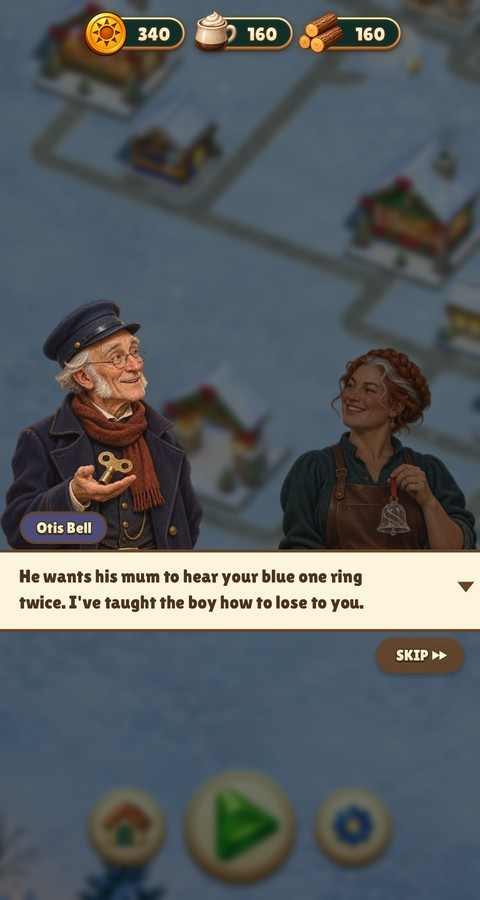
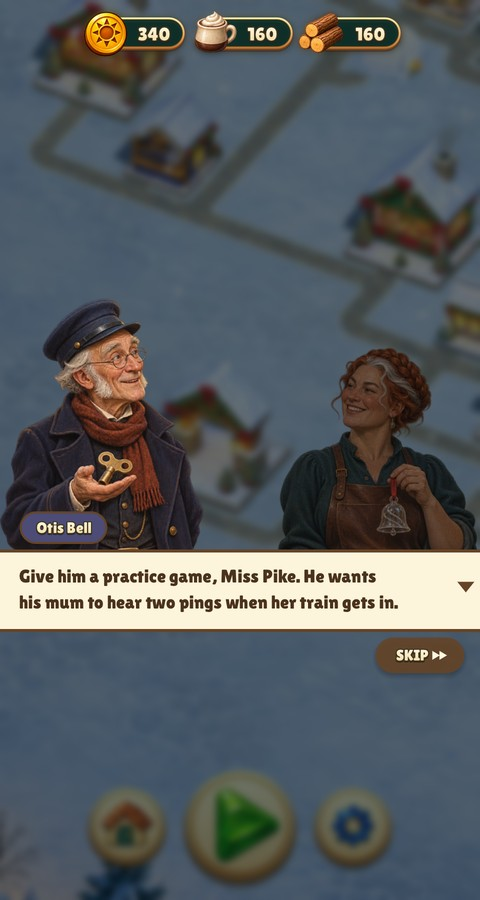
Close both resident stories with remembered questions at each home

Changed region(s): [[0.0312, 0.6222, 0.8438, 0.6844]]

diff --git a/tools/town_story.py b/tools/town_story.py
@@ -58,19 +58,54 @@ def meeting_questions(blocks, sites, key, visits, residents, speakers):
     return output
 
 
-def compile_recall(body, sites, meeting, cast, speakers, level_lines):
+def recall_questions(blocks, sites, checkpoint, residents, speakers):
+    homes = blocks[1::3]
+    assert sorted(homes) == sorted(sites), f'{checkpoint}: write one final question at each home'
+    output = []
+    for site, label, body in zip(homes, blocks[2::3], blocks[3::3]):
+        parts = re.split(r'^\*\*If heard ([a-z_]+)\*\*$', body, flags=re.M)
+        lines = speech(parts[0], speakers)
+        assert any(line.speaker == speakers[residents[site][0]] for line in lines), label
+        output.append('        {key=%s, building=%s, when=%s, topic="recall", label=%s, lines={' %
+                      (quote(checkpoint + '.' + site), quote(site), quote(checkpoint), quote(label)))
+        output.extend('            ' + line.lua() + ',' for line in lines)
+        if len(parts) > 1:
+            other, reply = parts[1:]
+            alternate = speech(reply, speakers)
+            assert other in sites and other != site, label
+            assert [line.speaker for line in alternate] == [line.speaker for line in lines], label
+            output.append('        }, replies={')
+            for index, line in enumerate(alternate, 1):
+                output.append('            {index=%d, building=%s, when=%s, line=%s},' %
+                              (index, quote(other), quote(checkpoint + '.' + other), line.lua()))
+        output.append('        }},')
+    return output
+
+
+def compile_recall(body, sites, meeting, cast, speakers, level_beat, residents):
+    body, *catchup = re.split(r'^\*\*Catch up in town\*\*$', body, flags=re.M)
     parts = re.split(r'^\*\*Heard ([a-z_]+)\*\*$', body, flags=re.M)
     histories = parts[1::2]
     assert not parts[0].strip() and sorted(histories) == sorted([*sites, 'neither', 'both']), \
         f'{meeting}: write one exchange for each listening history'
-    output = [', recall={meeting=%s, exchanges={' % quote(meeting)]
+    checkpoint = meeting + '.' + level_beat['key']
+    output = [', recall={key=%s, meeting=%s, exchanges={' % (quote(checkpoint), quote(meeting))]
     for history, exchange in zip(histories, parts[2::2]):
         lines = speech(exchange, speakers)
         assert {line.speaker for line in lines} == cast, f'{meeting}: both residents must speak in {history}'
-        assert len(level_lines) + len(lines) <= 48, f'{meeting}: {history} exceeds the dialogue queue'
+        assert len(level_beat['lines']) + len(lines) <= 48, f'{meeting}: {history} exceeds the dialogue queue'
         output.append('        [%s]={' % quote(history))
         output.extend('            ' + line.lua() + ',' for line in lines)
         output.append('        },')
+    if catchup:
+        town, = catchup
+        blocks = re.split(r'^\*\*Ask at ([a-z_]+) \| ([^\n]+\?)\*\*$', town, flags=re.M)
+        lines = speech(blocks[0], speakers)
+        assert {line.speaker for line in lines} == cast, checkpoint
+        output.append('    }, lines={')
+        output.extend('        ' + line.lua() + ',' for line in lines)
+        output.append('    }, followups={')
+        output.extend(recall_questions(blocks, sites, checkpoint, residents, speakers))
     output.append('    }}')
     return '\n'.join(output)
 
@@ -174,7 +209,7 @@ def compile_town(source, beats, speakers):
             assert target not in recalls, f'{target}: two meetings share a recall'
             assert {site for site, source in zip(followups[1::4], followups[2::4]) if not source} == set(sites), \
                 f'{key}: both residents need a first account'
-            recalls[target] = compile_recall(exchange, sites, key, cast, speakers, by_key[target]['lines'])
+            recalls[target] = compile_recall(exchange, sites, key, cast, speakers, by_key[target], residents)
         output.append('    {key=%s, phase="meeting", sites={%s}, level=%d, lines={' %
                       (quote(key), ', '.join(map(quote, sites)), level))
         output.extend('        ' + line.lua() + ',' for line in lines)

diff --git a/tools/scenario_overview.py b/tools/scenario_overview.py
@@ -161,6 +161,13 @@ class Page:
                 resident = self.cast[self.residents['placed-' + history]]['name']
                 heard = f'only {resident}’s side'
             body += f'<p class="pick">After the pair meets, if you heard {esc(heard)}</p>{self.lines(lines)}'
+        if b.get('catchup'):
+            body += '<p class="pick">Catch up in town</p>' + self.lines(b['catchup'])
+        for answer in b.get('endings', []):
+            name = self.steps[answer['building']]['name']
+            body += f'<p class="pick">{esc(name)} · {esc(answer["label"])}</p>{self.lines(answer["lines"])}'
+            if answer.get('alternate'):
+                body += '<p class="pick">After hearing the other resident</p>' + self.lines(answer['alternate'])
         if b.get('note'):
             body = f'<p class="note">Journal: {esc(b["note"])}</p>' + body
         if b.get('choices'):

diff --git a/games/relic-rush/docs/story.md b/games/relic-rush/docs/story.md
@@ -15,7 +15,7 @@ The camp is abandoned, the old well is fouled, and the quay wall is failing. The
 3. Recently Ines returned by a different shore. She found the room flooded and, unable to reach camp, used its hand shutter to send the old warning. She changed its rhythm to attract attention. Tomas does not know she is back.
 4. Adrian financed the expedition using a promised exclusive claim on island discoveries. He has not told Elena; the claim puts the relay and islanders' work at risk. Kessler represents the claim holder, not a supernatural threat.
 5. The team repairs the route to the tide room and finds Ines's signed plan. Adrian gives up the claim, and the crew drains the foot of the wall and makes the quay safe. When Mara tests the warning lamp, Ines waits and answers with the same three flashes from the safe landing. Tomas gives her the key, and she brings a chart of the other stations.
-6. Nera draws Lio and his parrot together for his sister. His sister recognizes the ear the bird likes to nibble. On the flood watch, Lio offers to take the pencil and draw Nera for her.
+6. Nera draws Lio and his parrot together for his sister. His sister recognizes the ear the bird likes to nibble. On the flood watch, Lio offers to take the pencil and draw Nera for her. Lio’s sister hangs the portraits facing each other. Nera is searching her pocket for the pencil behind her ear.
 
 ## Question and cast
 
@@ -66,6 +66,7 @@ One restoration opens every five expeditions. Story restorations (bold) play a s
 | Lio asks Nera to draw his bird for his sister | The drawing catches the parrot nibbling Lio’s ear. His sister recognizes him by that ear. |
 | Carry the story of the ear between the aviary and the Cartographer’s House | Nera kept the imperfect ear because it looked like Lio. His sister hangs the drawing by her mirror. |
 | Hear either account, both accounts, or leave the pair to themselves | The flood watch gives Lio time to draw Nera for his sister (92). |
+| Visit either home after the pair’s level scene | Lio’s sister hangs the portraits facing each other. Nera is searching her pocket for the pencil behind her ear. |
 | Mara asks about the folded corner at the Cartographer’s House (56) | At Cormorant Rock (67), Nera trusts Mara to flatten it when their bearings agree. |
 | Mara asks which of Lio’s noises his parrot copies (aviary after 85) | At 91 Lio tells her what the bird has learned to get with his snore. |
 | Two flashes answer Mara’s lamp (Spring well) | The answer changes to three at the Expedition camp. Ines confirms her identity with the same delayed pattern at the safe landing (100). |
@@ -857,6 +858,8 @@ At the Great Aviary, ask Lio what his sister thought of the portrait. At the Car
 
 On the flood watch at 92, Lio offers to draw Nera for his sister. Their exchange remembers whose account of the portrait Mara heard. [Both sides heard](screenshots/meeting-recall.jpg) · [One side heard](screenshots/meeting-recall-phone.jpg)
 
+Both homes offer one last question after the flood watch. Lio tells Mara where his sister hung the drawings. Nera tells her where to look for the missing pencil. [First account](screenshots/resident-ending.jpg) · [Second account](screenshots/resident-ending-other.jpg)
+
 Bring Lio’s account of his sister to Nera, or ask Lio about the ear Nera kept redrawing. Either exchange gives Mara something she can take back to the other resident. [Visit menu](screenshots/meeting-reply-menu.jpg) · [Resident’s reply](screenshots/meeting-reply-answer.jpg)
 
 Nera Cruz moves into the Cartographer’s House after expedition 56. Ask about the folded corner, then take a bearing with her at Cormorant Rock (67).
@@ -1150,6 +1153,31 @@ Confirming one of these purchases starts its own conversation. A “With” head
 - **Lio:** My turn to draw you for my sister, Nera. Which ear shall I get wrong?
 - **Nera:** Yours took all afternoon and she knew it at a glance. Give me the bird. Let's try my left.
 
+**Catch up in town**
+
+- **Lio:** Nera, you drew me for my sister. I had a go at drawing you. May I send her mine too?
+- **Nera:** Let me see it before you roll it up, Lio. I missed my chance while I was sitting for you.
+
+**Ask at aviary | What did your sister do with your drawing?**
+
+- **Mara:** Lio, where did your sister put the drawing you made of Nera?
+- **Lio:** Beside the one Nera drew of me. She hung us facing each other so we'd have company.
+
+**If heard map_room**
+
+- **Mara:** Nera says you drew her hunting for her pencil. Did your sister spot it?
+- **Lio:** She spotted the pencil too, Mara. She hung Nera facing me. Says I ought to tell her where it is.
+
+**Ask at map_room | Did Lio get your likeness?**
+
+- **Mara:** Nera, would I know you in Lio's drawing?
+- **Nera:** My hand's in my pocket hunting for my pencil. There it is behind my ear. I let him keep that bit.
+
+**If heard aviary**
+
+- **Mara:** Lio says the two of you face each other on his sister’s wall. What are you doing in yours?
+- **Nera:** Feeling in my pocket for my pencil. It's behind my ear. You'd think he'd tell me.
+
 ## Upgrades
 
 Optional scenes: the keeper of a standing building and one other main character, at any time after it stands. Perks are felt, never named.
@@ -1263,6 +1291,8 @@ Crew requests were removed from the game (commit f98aedd2), along with their sce
 The scenes play over the live island with the speaking character’s portrait. The keeper’s words come from the watch book in the camp scene. `tools/prepare_story.py` compiles this script into `lua/story_content.lua`; it requires a scene after every expedition and one at each story restoration. Five writers drafted one chapter each from a shared outline; a continuity editor reconciled them (the cabinet number, the key, the register, Ines's reveal, who knows what when) and a separate cold reader read the result chapter by chapter.
 
 ## Changelog
+
+- 2026-11-21: Both homes offer one last question after the flood watch. Lio tells Mara where his sister hung the drawings. Nera tells her where to look for the missing pencil. Hearing either answer changes the conversation at the other home.
 
 - 2026-11-21: On the flood watch at 92, Lio offers to draw Nera for his sister. Their exchange remembers whose account of the portrait Mara heard.
 

diff --git a/games/christmas-market/docs/story.md b/games/christmas-market/docs/story.md
@@ -54,7 +54,7 @@ One stall opens every five wishes, four to each Advent. Story stalls (bold) hold
 2. **Noelle's gran, Rosa,** ran the market's last small stall until her knees gave out and she retired to the coast. This winter she sends Noelle to help get it going again for Advent. She gives her a red parcel tagged "For whoever needs it most." It holds the key to Rosa's house on the square and a note. Noelle decides to stay before she opens it.
 3. **Theo Marsh** runs the family tree lot, and his hands are always sticky with resin. He started the Kind Word box's new season himself, because the town seemed lonely.
 4. **Mr Wren** appears on the first day and leaves on the last. Nobody hired him. Things tend to go well near his broom. The script never explains him. He may simply be a kind old man. Writers should keep both readings possible, up to his last note.
-5. Ada makes a blue glass button for Otis’s tin-lid board. He teaches her the double jump and she uses it to beat him in their first game. When Pip hears his mum is coming, Ada and Otis find him a game to pass the wait.
+5. Ada makes a blue glass button for Otis’s tin-lid board. He teaches her the double jump and she uses it to beat him in their first game. When Pip hears his mum is coming, Ada and Otis find him a game to pass the wait. Pip offers two buttons as bait, catches Ada’s blue one in his mitten and wins. Otis keeps his advice to himself.
 
 ## Cast
 
@@ -85,6 +85,7 @@ Bramble the goat does not speak.
 | Ada promises Otis a blue draughts button | Ada wins their first game with a double jump. Otis taught her the move and left his two men open. |
 | Tell Ada about Otis’s lesson, or take her two pings to the kiosk | Ada remembers Otis asking for his turn back. Otis invites Pip to test whether the teacher learned his lesson. |
 | Hear either account, both accounts, or leave the pair to themselves | Ada and Otis lend Pip the tin while he waits for his mum’s train (85). |
+| Visit either home after the pair’s level scene | Pip offers two buttons as bait, catches Ada’s blue one in his mitten and wins. Otis keeps his advice to himself. |
 | Pip learns to play draughts on Otis’s tin lid with coat buttons (kiosk after 46) | While Henrik reads the letter (63), Otis gives Pip the first move. |
 | Noelle asks what Ada plays (glassblower’s stall after 84) | When the choir comes in at 90, Ada brings her spoons and waits for Noelle’s cue. |
 | The parcel, "For whoever needs it most" (opening) | Tried on Mrs Alder (31), Pip (56), Mr Wren (91), who tells her to open it. It's hers: Gran's front-door key (92) |
@@ -818,6 +819,8 @@ At the Station Kiosk, ask Otis how the first game went. At the Glassblower’s S
 
 After Pip’s telegram at 85, Ada and Otis lend him their game while he waits for his mum. Their exchange remembers whose account of the first game Pip heard. [Both sides heard](screenshots/meeting-recall.jpg) · [One side heard](screenshots/meeting-recall-phone.jpg)
 
+After the pair lend Pip their tin lid, both homes offer one last question. Ada explains how Pip won the game. Otis tells Noelle what happened when he tried to coach. [First account](screenshots/resident-ending.jpg) · [Second account](screenshots/resident-ending-other.jpg)
+
 Pip can ask Ada whether Otis left the double jump on purpose, or ask Otis what Ada’s two pings sounded like from his end of the board. Either answer gives Pip a reason to walk back. [Visit menu](screenshots/meeting-reply-menu.jpg) · [Resident’s reply](screenshots/meeting-reply-answer.jpg)
 
 Otis Bell brings his clock to the Station Kiosk after wish 46. Ask how he passes the time and he’ll remember whose buttons Pip chose when they wait outside Henrik’s door at wish 63.
@@ -1113,7 +1116,32 @@ Confirming one of these purchases starts its own conversation. A “With” head
 **Heard both**
 
 - **Ada:** Pip's lined up two buttons for me, Mr Bell. Have you been giving him lessons?
-- **Otis:** He wants his mum to hear your blue one ring twice. I've taught the boy how to lose to you.
+- **Otis:** Give him a practice game, Miss Pike. He wants his mum to hear two pings when her train gets in.
+
+**Catch up in town**
+
+- **Otis:** Miss Pike, may I have my tin lid back? You and Pip have finished your game and my pie's gone cold.
+- **Ada:** Here you are, Mr Bell. I've put the buttons in your pocket. Mind you don't bake them in tomorrow.
+
+**Ask at glassblower | How did Pip do against you?**
+
+- **Noelle:** Ada, who won when you played Pip on Mr Bell's lid?
+- **Ada:** Pip did. I jumped the two buttons he left me. He jumped my blue one straight into his mitten.
+
+**If heard station_kiosk**
+
+- **Noelle:** Mr Bell says Pip hushed him. Did you see the winning jump coming, Ada?
+- **Ada:** I saw two easy buttons, Noelle. Pip saw my blue one landing in his mitten. He won it fair.
+
+**Ask at station_kiosk | Did Pip need any coaching?**
+
+- **Noelle:** Did you have to whisper the moves to Pip, Mr Bell?
+- **Otis:** I took a breath. Pip put a finger to his lips and won all by himself. I drank my tea.
+
+**If heard glassblower**
+
+- **Noelle:** Ada says Pip caught her blue button in his mitten. Whose idea was that, Mr Bell?
+- **Otis:** Pip's. I opened my mouth and he put a finger to his lips. First match I've coached by drinking tea.
 
 ## Upgrades
 
@@ -1248,6 +1276,8 @@ Optional scenes, one per building, played on the next return to town after its f
 - **Compile:** `python3 tools/prepare_story.py` writes `lua/story_content.lua`; it requires a scene after every wish 1–100.
 
 ## Changelog
+
+- 2026-11-21: After the pair lend Pip their tin lid, both homes offer one last question. Ada explains how Pip won the game. Otis tells Noelle what happened when he tried to coach. Hearing either answer changes the conversation at the other home.
 
 - 2026-11-21: After Pip’s telegram at 85, Ada and Otis lend him their game while he waits for his mum. Their exchange remembers whose account of the first game Pip heard.
 

diff --git a/docs/PORTRAIT_GAMES.md b/docs/PORTRAIT_GAMES.md
@@ -101,6 +101,9 @@ The following headers come from Lio and Nera's visits, callbacks and meeting.
 | `**Ask at map_room after aviary \| What about Lio's ear?**` | Once the player hears Lio's account of this meeting, Mara can bring it up with Nera. |
 | `**Recall after-92**` | At the end of a meeting's script, name a later level where the pair speak together again. The exchange follows that level's usual lines when their meeting has finished and both homes stand. |
 | `**Heard aviary**` | Within a recall, write four short exchanges. Use each building key for its resident’s side alone, plus `neither` and `both`. Hearing the resident's original account or their follow-up counts. |
+| `**Catch up in town**` | After the four histories, give the pair a short exchange that also works after the finale. It plays once if the level scene finished before the pair met or an older save lacks a record of the exchange. |
+| `**Ask at aviary \| What did your sister do with your drawing?**` | After the catch-up text, give each resident one closing question. Finishing the shared exchange at the level or in town unlocks both questions across all later visit stages. |
+| `**If heard map_room**` | Inside a closing question, replace its exchange if the other resident has already answered theirs. Keep the same speaker sequence. Both the visitor’s question and the resident’s answer can acknowledge what was said. |
 
 Several lines in a scene can each have a `With` block. Within one block, write the ordinary
 building reply first, then the conditional replies in priority order. The first satisfied

diff --git a/docs/STORY_WRITING.md b/docs/STORY_WRITING.md
@@ -118,6 +118,7 @@ Beat order: result → island → place the wonder → beat → next goal. Wonde
 - **The opening is playable at once.** One landmark, one object, one thing that is blocked, and a reward within the first minute. Open on something interesting, never on backstory or "welcome to".
 - **Environmental storytelling first.** Prefer a letter, a burn mark or a bricked-up door to a character explaining. Put history in artifacts, and let characters argue about what they mean.
 - **The world answers back.** Things change after a reveal. A building's tap bubble can change once the player knows what it means, which is cheap and rewards curiosity. Failure screens and small lines keep the voice too.
+- **Finish what the characters start.** If two residents promise to draw a portrait or play a game, put the outcome on the plant-and-payoff sheet. Decide where a curious player can learn it. When each resident has a side to tell, read both visit orders and end the thread once the player has heard both.
 - **The ending must:** pay off at least two things planted earlier, include a real decision or a real gift from a main character, and show what comes next.
 - **Walk straight into the sequel.** Zork I's last room is the first room of Zork II, and players remember one continuous journey although nothing carries over. Open each episode at the place and moment the last one stopped. The "To be continued" screen should feel like the next step in that place, not an advertisement.
 

diff --git a/games/christmas-market/README.md b/games/christmas-market/README.md
@@ -138,7 +138,7 @@ Ada Pike arrives from across the lake when the Glassblower’s stall opens. She 
 
 Once Otis and Ada have both moved in, a lost draughts button gives them an excuse for a game. Ask Otis why he keeps the dent in his tin and he tells Ada what it means to him.
 
-At the Station Kiosk, ask Otis how the first game went. At the Glassblower’s Stall, ask Ada about her blue button and the winning move. After Pip’s telegram at 85, Ada and Otis lend him their game while he waits for his mum. Their exchange remembers whose account of the first game Pip heard.
+At the Station Kiosk, ask Otis how the first game went. At the Glassblower’s Stall, ask Ada about her blue button and the winning move. After Pip’s telegram at 85, Ada and Otis lend him their game while he waits for his mum. Their exchange remembers whose account of the first game Pip heard. After the pair lend Pip their tin lid, both homes offer one last question. Ada explains how Pip won the game. Otis tells Noelle what happened when he tried to coach.
 
 Pip can ask Ada whether Otis left the double jump on purpose, or ask Otis what Ada’s two pings sounded like from his end of the board. Either answer gives Pip a reason to walk back.
 

diff --git a/games/relic-rush/README.md b/games/relic-rush/README.md
@@ -181,7 +181,7 @@ Lio Valez moves down from the hills when the Great Aviary opens. He returns on e
 
 Once Lio and Nera have both moved in, he asks her to draw his parrot for his sister. If Mara asked Nera whether she draws for fun, Lio hears about Mara’s portrait and offers his own grin.
 
-At the Great Aviary, ask Lio what his sister thought of the portrait. At the Cartographer’s House, ask Nera how she got the pair to sit still. On the flood watch at 92, Lio offers to draw Nera for his sister. Their exchange remembers whose account of the portrait Mara heard.
+At the Great Aviary, ask Lio what his sister thought of the portrait. At the Cartographer’s House, ask Nera how she got the pair to sit still. On the flood watch at 92, Lio offers to draw Nera for his sister. Their exchange remembers whose account of the portrait Mara heard. Both homes offer one last question after the flood watch. Lio tells Mara where his sister hung the drawings. Nera tells her where to look for the missing pencil.
 
 Bring Lio’s account of his sister to Nera, or ask Lio about the ear Nera kept redrawing. Either exchange gives Mara something she can take back to the other resident.
 
